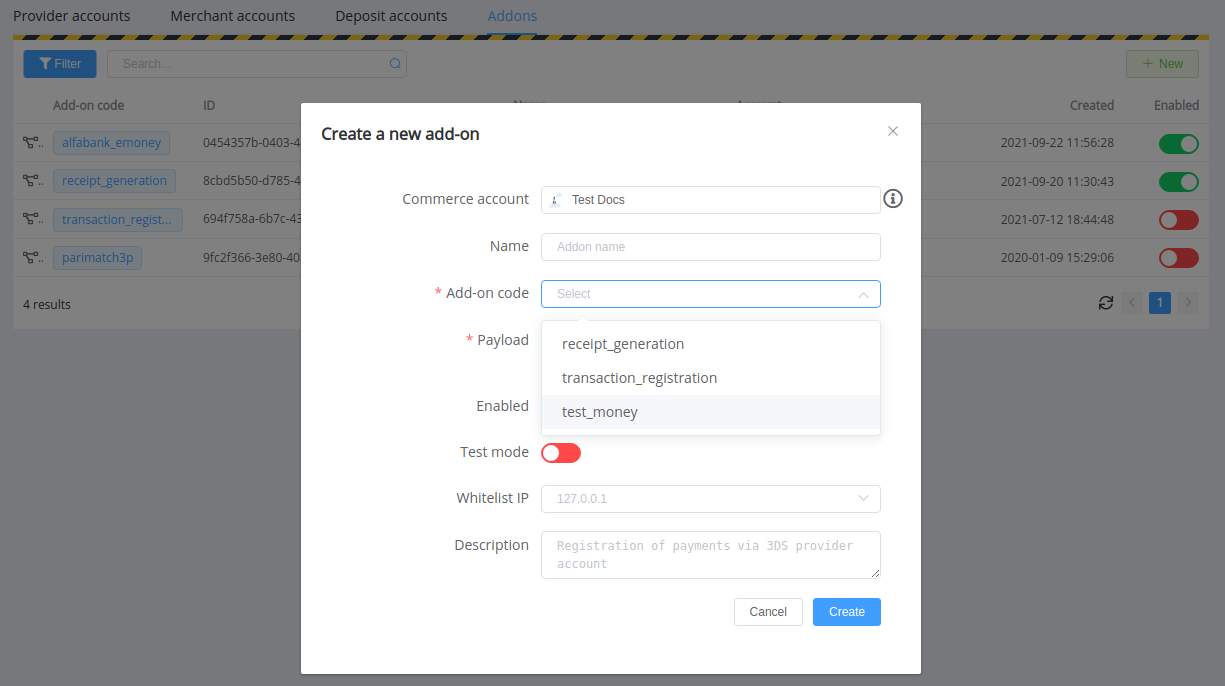
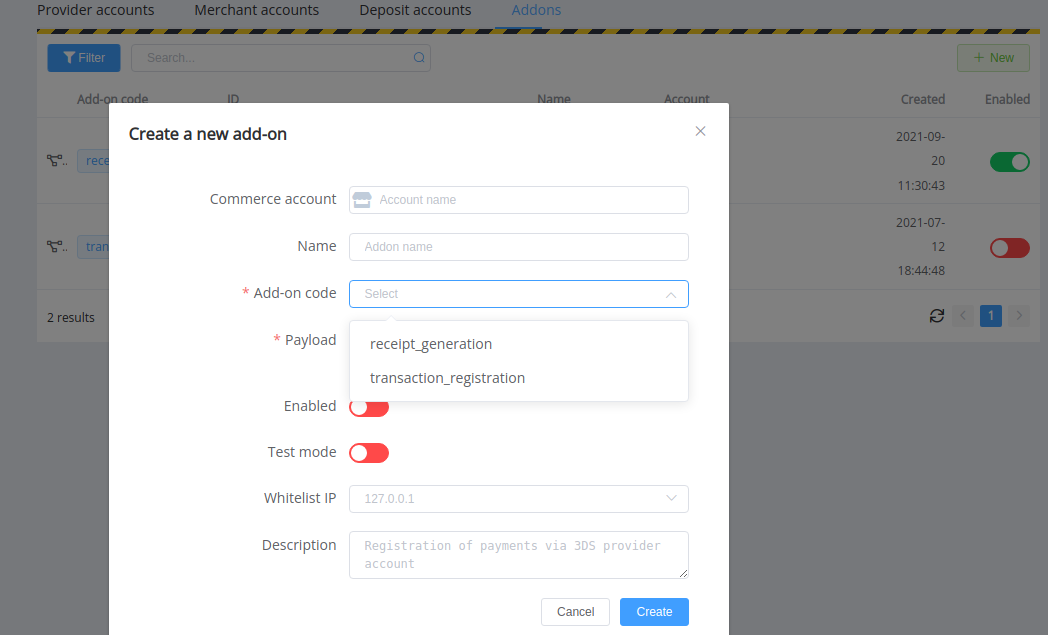
edits after review

diff --git a/docs/release-notes/v1.94-1.103.md b/docs/release-notes/v1.94-1.103.md
@@ -15,7 +15,7 @@ This month has the highest number of new and updated connectors: there are 130 f
 
 ## Highlights
 
-* [Commerce updates](#commerce-updates): made invoice reference ID optional so now generate UUID randomly; added the `active-payment` object to payment invoice reconciliation
+* [Commerce updates](#commerce-updates): made invoice reference ID optional so now generate UUID randomly
 * Updated [addon creating](#addon-updates)
 * [New Analytics tables and columns](#new-analytics-tables)
 * Updated [Telegram bot](#telegram-bot) functionality
@@ -31,152 +31,25 @@ Did you have trouble coming up with a unique Reference ID while a new invoice cr
 
 ![Create an invoice](images/v1.94-1.103/create-invoice.png)
 
-#### Active payment's info for reconciliation
-
-We've added the `active-payment` object that includes the payment ID to make the payment invoice reconciliation even more informative.
-
-Endpoints: `/payment-invoices/{{id}}`
-
-Method: GET
-
-???+ example "Code sample"
-
-    ```json hl_lines="61-64"
-            {
-                "data": {
-                    "type": "payment-invoices",
-                    "id": "cpi_e1btRXcSXe5L7grl",
-                    "attributes": {
-                        "serial_number": "e1btRXcSXe5L7grl",
-                        "status": "processed",
-                        "resolution": "ok",
-                        "moderation_required": false,
-                        "amount": 100,
-                        "payment_amount": 100,
-                        "currency": "UAH",
-                        "service_currency": "UAH",
-                        "reference_id": "6ce4568c-6b3c-4fc2-800f-4d4151409802",
-                        "test_mode": true,
-                        "fee": 0,
-                        "deposit": 100,
-                        "processed": 1632400303,
-                        "processed_amount": 100,
-                        "refunded_amount": null,
-                        "processed_fee": 0,
-                        "processed_deposit": 100,
-                        "metadata": { ... },
-                        "flow_data": {
-                            "action": "https://cardgate.test.com/hpp/cgi_kO7NCLKfc32dzLED",
-                            "method": "GET",
-                            "params": [],
-                            "metadata": { ... }
-                        },
-                        "flow": "hpp",
-                        "payment_flow": "charge",
-                        "created": 1632399882,
-                        "updated": 1632400303,
-                        "payload": { ... },
-                        "description": "Invoice Example",
-                        "descriptor": null,
-                        "callback_url": "https://webhook.site/072677a8-eebb-4fd5-82eb-609d9b30a0dc",
-                        "return_url": "https://example.com",
-                        "return_urls": { ... },
-                        "original_data": { ... },
-                        "rrn": null,
-                        "approval_code": null,
-                        "reserved_amount": null,
-                        "reserve_expires": null,
-                        "unreserved": null,
-                        "source": "merchant_api",
-                        "callback_logs": [],
-                        "charged_back_amount": null,
-                        "resolution_message": null
-                    },
-                    "relationships": {
-                        "payment-service": {
-                            "data": { ... }
-                        },
-                        "payment-method": {
-                            "data": { ... }
-                        },
-                        "customer": {
-                            "data": { ... }
-                        },
-                        "active-payment": {
-                            "data": {
-                                "type": "payments",
-                                "id": "pay_1FJlsHzoBgvjThdeuLTc0bpU"
-                            }
-                        }
-                    },
-                    "links": {
-                        "self": "/api/payment-invoices/cpi_e1btRXcSXe5L7grl"
-                    }
-                }
-            }
-    ```
-
 ### Addon updates
 
 We've [further updated](/release-notes/v1.83-1.93/#addons-update) the form for a new addon connecting by increasing its functionality.
 
 ![Create a new add-on](images/v1.94-1.103/create-new.png)
 
+!!! question "In case, you're not sure what addons are available to your organisation"
+
+    Please check them with your account manager.
+
 ### New Analytics tables
 
-From now on, you can add to queries extra tables for batch payouts.
-
-!!! example "Tables and columns for use"
-
-    === "`com_payout_batches`"
-
-        * `id`
-        * `commerce_account_id`
-        * `currency_account_id`
-        * `currency`
-        * `status`
-        * `resolution`
-        * `options`
-        * `reference_id`
-        * `name`
-        * `description`
-        * `total_items`
-        * `total_item_status`
-        * `total_processed_amount`
-        * `total_processed_fee`
-        * `total_processed_writeoff`
-        * `processed`
-        * `created`
-        * `test_mode`
-        * `total_estimated_amount`
-        * `total_estimated_writeoff`
-        * `total_estimated_fee`
-
-    === "`com_payout_batch_items`"
-
-        * `id`
-        * `payout_batch_id`
-        * `payout_invoice_id`
-        * `status`
-        * `resolution`
-        * `service_code`
-        * `service_method`
-        * `service_currency`
-        * `service_amount`
-        * `reference_id`
-        * `fields`l and generate UUID randomly;
-        * `description`
-        * `processed`
-        * `created`
-        * `commerce_account_id`
-        * `resolution_message`
-        * `customer`
+From now on, you can add to queries extra tables for batch payouts: `com_payout_batches` and `com_payout_batch_items`.
 
 We're also added the column `processed_route_id` for the `pg_payments` table.
 
 ### Telegram bot
 
-And here come good news for Telegram and, specifically, our Telegram bot users. Now you can choose the account you want to get info about by turning pages in the general list and finding it by the ID or reference ID.
+And here come good news for Telegram and, specifically, our Telegram bot users. Now you can choose the account you want to get info about by turning pages in the general list and finding it by the ID, name, or reference ID.
 
 ![Image fragment](images/v1.94-1.103/bot-search.png)
 
